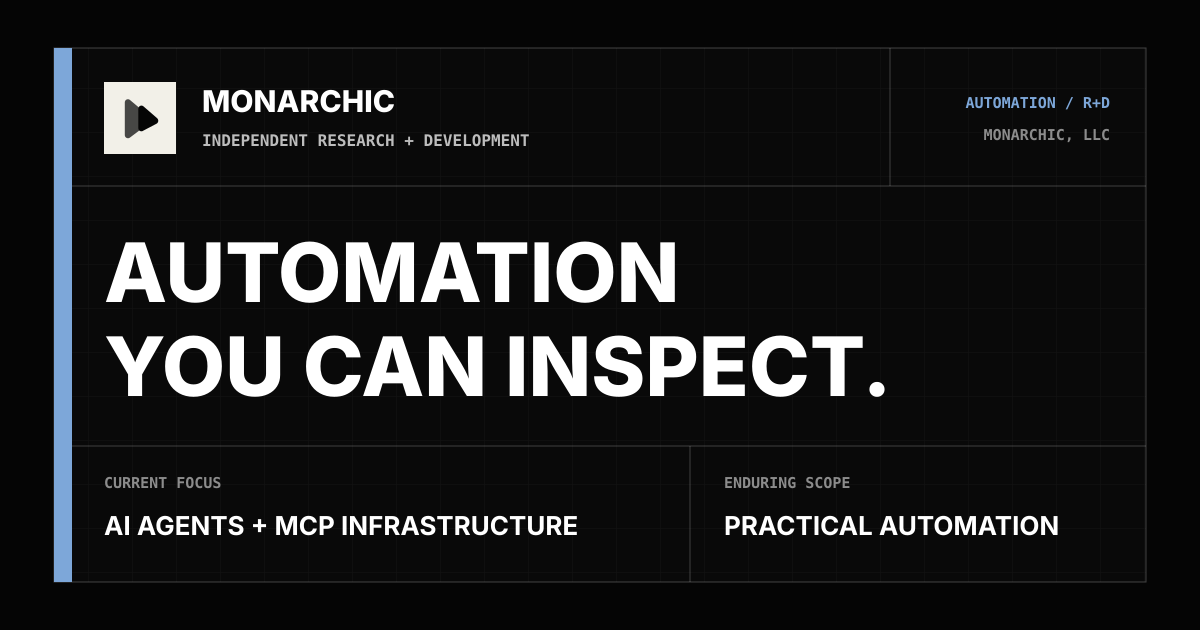
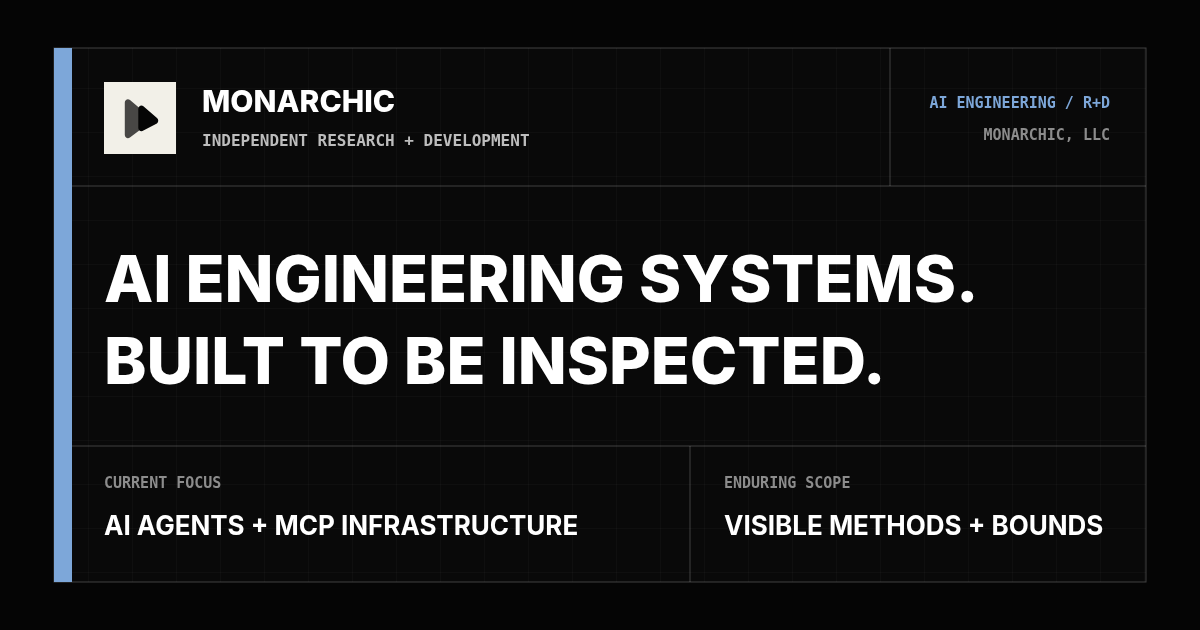
fix(website): position Monarchic as AI engineering

diff --git a/src/pages/build-info.json.ts b/src/pages/build-info.json.ts
@@ -60,7 +60,7 @@ export async function GET() {
         manifestDigest: catalogManifest.artifactDigest,
         artifactDigest: await catalogArtifactDigest(),
       },
-      socialImage: "/social-card.png?v=4",
+      socialImage: "/social-card.png?v=5",
     }),
     {
       headers: {
